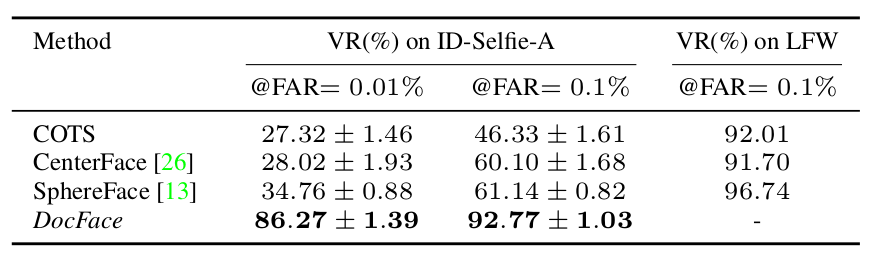
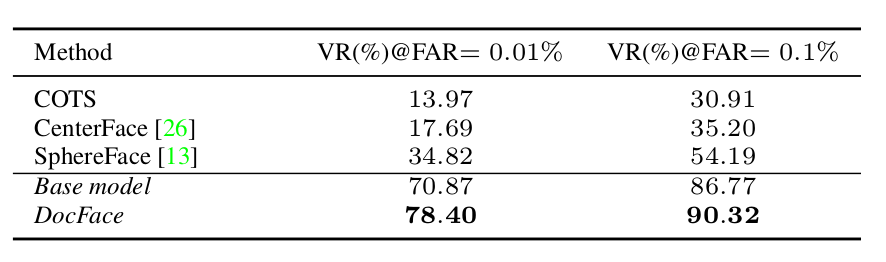
完善DocFace的实验部分

Changed region(s): [[0.0, 0.0618, 0.9774, 0.9575]]

diff --git a/_posts/计算机视觉/深度学习/论文解读/2018-10-29-DocFace:-Matching-ID-Document-Photos-to-Selfies-论文解读.md b/_posts/计算机视觉/深度学习/论文解读/2018-10-29-DocFace:-Matching-ID-Document-Photos-to-Selfies-论文解读.md
@@ -5,7 +5,7 @@ date:   2018-10-29 10:18:40 +0800
 key: docFace-20181029
 aside:
   toc: true
-tags: 人证比对 人脸验证 人脸识别 图像检索 深度学习 计算机视觉 论文解读
+tags: 人证比对 人脸验证 人脸识别 孪生网络 图像检索 迁移学习 深度学习 计算机视觉 论文解读
 ---
 
 >论文发表时间：2018年5月  
@@ -14,15 +14,15 @@ tags: 人证比对 人脸验证 人脸识别 图像检索 深度学习 计算机
 
 
 ## 一、一句话总结  
-**第一句**：在[人证比对](#face-verification-id-doc)场景中，「DocFace」比通用人脸验证方案准确度更高——用人脸识别来做匹配；:ghost:  
-**第二句**：将迁移学习应用到人脸验证，且为[人证比对](#face-verification-id-doc)问题设计了新的 Loss 函数；:ghost:  
+**第一句**：在[人证比对](#face-verification-id-doc)场景中，「[DocFace](#DocFace)」 比[通用人脸验证](#general_fv)方案准确度更高；    
+**第二句**：将迁移学习应用到人脸验证，且为[人证比对](#face-verification-id-doc)问题设计了新的 Loss 函数；**`迁移学习专题`{:.warning}**  
 
 ## 二、Q&A  
 人工比对，耗时耗力且容易出错；之前的人证比对方案也都是 2011 年以前了；因此我们使用近年发展迅速的 DNN 来处理人证比对问题；  
 
 1.证件照图像质量低；**`what`{:.warning}**  证件照与自拍照有年龄差距；**`人脸识别也有面临这个问题吧`{:.warning}**    
 {:.warning}  
-DocFace，[MPS 损失函数](#mps-loss)；  
+[DocFace](#DocFace)；    
 
 2.人证比对数据集缺乏；  
 {:.warning}  
@@ -34,17 +34,18 @@ DocFace，[MPS 损失函数](#mps-loss)；
 
 ## 三、贡献  
 针对[人证比对](#face-verification-id-doc)问题：  
-- 进行了公开算法的评估；  
-- 设计了新的思路——DocFace，和[MPS 损失函数](#mps-loss)，效果优异；  
-- 设计了两个专门的人证比对数据集（但是并未公开）；  
+- 进行了[公开算法的评估](#compare)；  
+- 设计了新的算法 —— [DocFace](#DocFace)，效果优异；  
+- 设计了两个专门的人证比对[数据集](#dataset)（但是并未公开）；  
 
 ## 四、结论  
 - 由于应用场景不同，所以面临的难题也不同，这使得通用人脸验证方法在人证比对问题上效果很差，而本文设计的 DocFace 效果非常好；  
-- 只要训练集扩大，算法的性能就会稳定提升；  
+- 只要训练集扩大，算法的性能就会稳定提升；**`哪条实验证明了这个稳定`{:.warning}**  
 
-## 五、基本流程/解决方案——DocFace  
+## 五、基本流程/解决方案 —— <span id="DocFace">DocFace</span>  
 前导知识：`人脸识别`，`CNN`，`深度学习基本知识`；  
 ![](/assets/images/cv/dl/paper_reading/DocFace/DocFace.png)  
+
 **第一步** Train on source domain：**在源数据集上训练出基础模型**   
 [MA-Celeb-1M](#MS-Celeb-1M)：Face-ResNet[^Deepvisage] + [AM-Softmax](#AM-Softmax)损失函数；  
 
@@ -53,24 +54,15 @@ DocFace，[MPS 损失函数](#mps-loss)；
 将数据集中的证件照和自拍照分别送入两个网络；  
 
 ## 六、实验  
-数据准备：使用 MTCNN 检测并裁剪出人脸，并利用关键点对齐，resize 到 96*112；  
+数据准备：使用 MTCNN 检测并裁剪出人脸，并利用关键点对齐，resize 到 96 * 112；  
 
-### （一）数据集
-<span id="MS-Celeb-1M">**1. MS-Celeb-1M**[^Ms-celeb-1m]</span>  
-人脸识别数据集，数据集中存在错误标注；
+### <span id="dataset">（一）数据集</span>
 
-| 数据 | 训练集（张） | 测试集（张） |  
-| -- | -- | -- |  
-|原数据集| 8,456,240|99,892|  
-|清洗后|5,041,527|98,687|  
+<span id="ID-Selfie-A">**1. ID-Selfie-A**</span>  
+自建数据集，由证件照及对应的自拍照组成，共 10,000 对；能够进行人脸对齐的共 9,915 对，也就是 19,830 张图像；  
 
-`下载地址`{:.warning}  
-
-<span id="ID-Selfie-A">**2. ID-Selfie-A**</span>  
-由证件照及对应的自拍照组成，共 10,000 对；能够进行人脸对齐的共 9,915 对，也就是 19,830 张图像；  
-
-<span id="ID-Selfie-B">**3. ID-Selfie-B**</span>  
-由证件照及对应的自拍照组成，共 547 组，10,844 张；进行人脸对齐及清洗后，还有 537 组，10,806 张；  
+<span id="ID-Selfie-B">**2. ID-Selfie-B**</span>  
+自建数据集，由证件照及对应的自拍照组成，共 547 组，10,844 张；进行人脸对齐及清洗后，还有 537 组，10,806 张；  
 相比 ID-Selfie-A，本数据集中的自拍照，无约束程度更强；  
 
 ### （二）实验结果   
@@ -79,20 +71,44 @@ DocFace，[MPS 损失函数](#mps-loss)；
   准确度：FAR 为 0.1% 的条件下，基础模型在 LFW 上是 99.67%，BLUFR 上是 99.6%；  
 
 **1. 探索实验**  
+**`探究 DocFace 有效性时，为什么没有设计「融合数据集」比对实验，也就是验证是迁移学习有效，还是数据融合有效`{:.warning}**  
+
+**结论一**：  
+1.大数据集比小数据集训练出的模型效果更好，小数据集非常容易过拟合；  
+2.针对 [ID-Selfie-A](#ID-Selfie-A) 数据，在 [MA-Celeb-1M](#MS-Celeb-1M) 训练结果上微调后比直接用[MA-Celeb-1M](#MS-Celeb-1M) 上的训练结果有较大提高；  
+3.[DocFace](#DocFace) 的策略非常有效，尤其以 [MPS 损失函数](#mps-loss) 贡献最大，[孪生网络](#sibling_net) 对结果有非常微小的提升；  
+{:.warning}  
 使用数据集：[MA-Celeb-1M](#MS-Celeb-1M)，[ID-Selfie-A](#ID-Selfie-A)  
 ![](/assets/images/cv/dl/paper_reading/DocFace/result_explore.png)  
 **FS**：从零开始训练  **BM**：基础模型，未经过微调的  **TL**：经过微调的模型  **VR**：验证准确率  **-**：没有训练，这一项就为空   
 
-**2. 对比实验**  
-使用数据集：[MA-Celeb-1M](#MS-Celeb-1M)，[ID-Selfie-A](#ID-Selfie-A)，LFW  
-![](/assets/images/cv/dl/paper_reading/DocFace/result_compare_a.png)  
-**DocFace**：微调 + MPS   
+<span id="compare">**2. 对比实验**</span>  
 
-使用数据集：[ID-Selfie-B](#ID-Selfie-B)
+**结论二**：  
+[DocFace](#DocFace) 在 [人证比对](#face-verification-id-doc) 问题上，效果远胜于 SphereFace[^SphereFace]、CenterFace[^CenterFace] 和 [COTS](#COTS)；  
+*上述结论，文中并未给出，不知是出于学术严谨，还是实验只关注 DocFace 够不够好*  
+{:.warning}  
+准确度排序：DocFace > SphereFace > CenterFace > COTS；  
+使用数据集：[MA-Celeb-1M](#MS-Celeb-1M)，[ID-Selfie-A](#ID-Selfie-A)，LFW **`待补充`{:.warning}**  
+LFW：仅用于测试，未参与训练；  
+![](/assets/images/cv/dl/paper_reading/DocFace/result_compare_a.png)  
+**`为什么 DocFace 没有在 LFW 上进行测试`{:.warning}**  
+
+**结论三**：  
+1.数据集 [ID-Selfie-B](#ID-Selfie-B) 比 [ID-Selfie-A](#ID-Selfie-A) 场景更复杂，无约束程度更高；  
+2.[DocFace](#DocFace) 不仅验证准确度最优，且泛化能力也远胜于 SphereFace[^SphereFace]、CenterFace[^CenterFace] 和 [COTS](#COTS)；  
+*上述结论，文中并未给出，不知是出于学术严谨，还是实验只关注 DocFace 够不够好*  
+{:.warning}  
+泛化能力排序：DocFace > SphereFace > COTS > CenterFace；  
+使用数据集：[ID-Selfie-B](#ID-Selfie-B)   
+**`为什么 base model 不在 ID-Selfie-A 上做测试呢`{:.warning}**  **`base model 带到底是个啥东西，咋训练的`{:.warning}**    
 ![](/assets/images/cv/dl/paper_reading/DocFace/result_compare_b.png)  
+
 
 ## 七、细节
 ### （一）概念
+<span id="COTS">**COTS**</span>  
+Commercial-Off-The-Shelf：商用的人脸验证方案；  
 
 <span id="mps-loss">**Max-margin Pairwise Score (MPS) loss**</span>  
 **`待补充`{:.warning}**  
@@ -109,13 +125,29 @@ DocFace，[MPS 损失函数](#mps-loss)；
 <span id="face-verification-id-doc">**人证比对**</span>  
 属于[人脸验证](#face-verification)的范畴，只是其中一张人脸图片来源于证件照；　　
 
+<span id="general_fv">**通用人脸验证方案**</span>  
+使用人脸识别来处理人脸验证问题：对于输入图像，使用人脸识别模型，截取中间层的输出（即该层对应的 feature map）作为图像的特征；然后使用相似度计算算法度量两张图片的相似性；
+
 ### （二）损失函数  
 <span id="AM-Softmax">**AM-Softmax**[^AM-Softmax]-[^ArcFace]-[^Cosface]</span>  
 **`待补充`{:.warning}**  
 ![](/assets/images/cv/dl/paper_reading/DocFace/AM-Softmax.png)  
+
+### （三）数据集
+<span id="MS-Celeb-1M">**1. MS-Celeb-1M**[^Ms-celeb-1m]</span>  
+人脸识别数据集，数据集中存在错误标注；
+
+| 数据 | 训练集（张） | 测试集（张） |  
+| -- | -- | -- |  
+|原数据集| 8,456,240|99,892|  
+|清洗后|5,041,527|98,687|  
+
+`下载地址`{:.warning}  
 
 [^Deepvisage]:A. Hasnat, J. Bohné, J. Milgram, S. Gentric, and L. Chen. Deepvisage: Making face recognition simple yet with powerful generalization skills. arXiv:1703.08388, 2017.  
 [^ArcFace]:J. Deng, J. Guo, and S. Zafeiriou. Arcface: Additive angular margin loss for deep face recognition. arXiv:1801.07698, 2018.  
 [^AM-Softmax]:F. Wang, W. Liu, H. Liu, and J. Cheng. Additive margin softmax for face verification. arXiv:1801.05599, 2018.  
 [^Cosface]:H. Wang, Y. Wang, Z. Zhou, X. Ji, Z. Li, D. Gong, J. Zhou, and W. Liu. Cosface: Large margin cosine loss for deep face recognition. arXiv:1801.09414, 2018.  
 [^Ms-celeb-1m]:Y. Guo, L. Zhang, Y. Hu, X. He, and J. Gao. Ms-celeb-1m: A dataset and benchmark for large scale face recognition. In ECCV, 2016.  
+[^SphereFace]:W. Liu, Y. Wen, Z. Yu, M. Li, B. Raj, and L. Song. Sphereface: Deep hypersphere embedding for face recognition. In CVPR, 2017.  
+[^CenterFace]:Y. Wen, K. Zhang, Z. Li, and Y. Qiao. A discriminative feature learning approach for deep face recognition. In ECCV, 2016.  
